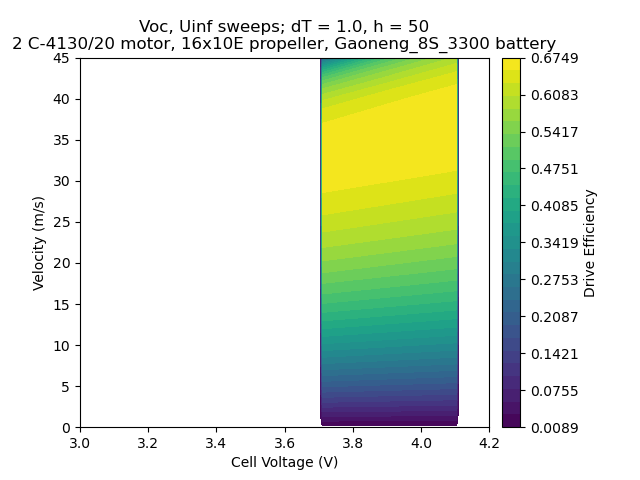
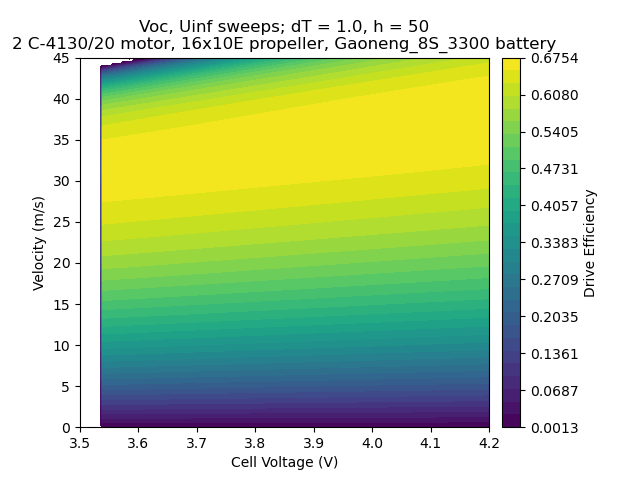
switch to jeong Voc vs SOC

diff --git a/src/uavdex/propulsions.py b/src/uavdex/propulsions.py
@@ -558,13 +558,13 @@ def VocFunc(SOC, BattType):
     Determines the battery Voltage (Voc) as a function of State of Charge (SOC) given from 0-1 for a specified battery chemistry
     
     LiPo
-    Main equation from Chen 2006
-    https://rincon-mora.gatech.edu/publicat/jrnls/tec05_batt_mdl.pdf
-    
-    Alternative from Jeong 2020
+    Main equation from Jeong 2020
     Voc = 1.7*(SOC**3) - 2.1*(SOC**2) + 1.2*SOC + 3.4
     https://www.researchgate.net/publication/347270768_Improvement_of_Electric_Propulsion_System_Model_for_Performance_Analysis_of_Large-Size_Multicopter_UAVs
     
+    alternative equation from Chen 2006
+    https://rincon-mora.gatech.edu/publicat/jrnls/tec05_batt_mdl.pdf
+        
     NOTE:
     Jeong 2020 also presents resistance as a function of cell energy:
     Rbatt.cell = 21.0*(ebatt.cell)**-0.8056
@@ -577,7 +577,8 @@ def VocFunc(SOC, BattType):
     TODO: implment battery voltage equation adjustments based on predicted health (measured via Vsoc at full charge!)
     '''
     if BattType == 'LiPo':
-        return(3.685 - 1.031 * np.exp(-35 * SOC) + 0.2156 * SOC - 0.1178 * SOC**2 + 0.3201 * SOC**3)
+        return(1.7*SOC**3 - 2.1*SOC**2 + 1.2*SOC + 3.4)
+        # return(3.685 - 1.031 * np.exp(-35 * SOC) + 0.2156 * SOC - 0.1178 * SOC**2 + 0.3201 * SOC**3)
     elif BattType == 'Liion':
         return(-4.48*((1-SOC)**5) + 9.09*((1-SOC)**4) - 7.08*((1-SOC)**3) + 2.32*((1-SOC)**2) - 0.76*(1-SOC) + 4.10)
     else:
@@ -776,16 +777,17 @@ def VocFuncBase(SOC, BattType):
     Determines the battery Voltage (Voc) as a function of State of Charge (SOC) given from 0-1 for a specified battery chemistry
     
     LiPo
-    Main equation from Chen 2006
-    https://rincon-mora.gatech.edu/publicat/jrnls/tec05_batt_mdl.pdf
-    
-    Alternative from Jeong 2020
+    Main equation from Jeong 2020
     Voc = 1.7*(SOC**3) - 2.1*(SOC**2) + 1.2*SOC + 3.4
     https://www.researchgate.net/publication/347270768_Improvement_of_Electric_Propulsion_System_Model_for_Performance_Analysis_of_Large-Size_Multicopter_UAVs
     
+    alternative equation from Chen 2006
+    https://rincon-mora.gatech.edu/publicat/jrnls/tec05_batt_mdl.pdf
+        
     NOTE:
     Jeong 2020 also presents resistance as a function of cell energy:
     Rbatt.cell = 21.0*(ebatt.cell)**-0.8056
+    
     
     Liion
     https://www.researchgate.net/publication/346515863_Comparison_of_Lithium-Ion_Battery_Pack_Models_Based_on_Test_Data_from_Idaho_and_Argonne_National_Laboratories
@@ -794,7 +796,8 @@ def VocFuncBase(SOC, BattType):
     TODO: implment battery voltage equation adjustments based on predicted health (measured via Vsoc at full charge!)
     '''
     if BattType == 'LiPo':
-        return(3.685 - 1.031 * np.exp(-35 * SOC) + 0.2156 * SOC - 0.1178 * SOC**2 + 0.3201 * SOC**3)
+        return(1.7*SOC**3 - 2.1*SOC**2 + 1.2*SOC + 3.4)
+        # return(3.685 - 1.031 * np.exp(-35 * SOC) + 0.2156 * SOC - 0.1178 * SOC**2 + 0.3201 * SOC**3)
     elif BattType == 'Liion':
         return(-4.48*((1-SOC)**5) + 9.09*((1-SOC)**4) - 7.08*((1-SOC)**3) + 2.32*((1-SOC)**2) - 0.76*(1-SOC) + 4.10)
     else:

diff --git a/src/uavdex/quicktest.py b/src/uavdex/quicktest.py
@@ -1,0 +1,47 @@
+# -*- coding: utf-8 -*-
+"""
+Created on Tue Mar 24 14:15:00 2026
+
+@author: NASSAS
+"""
+
+from propulsions import VocFunc
+import matplotlib.pyplot as plt
+import numpy as np
+
+BattType = 'LiPo'
+# BattType = 'Liion'
+
+SOC = np.linspace(0.0, 1)
+Voc = VocFunc(SOC, BattType)
+
+def BoteroFunc(x):
+    return(-1.031*np.exp(-35*x) + 3.685 + 0.2156*x - 0.1178*x**2 + 0.3201*x**3)
+
+def JeongFunc(SoC):
+    return(1.7*SoC**3 - 2.1*SoC**2 + 1.2*SoC + 3.4)
+
+chenV = VocFunc(SOC, 'LiPo')
+ionV = VocFunc(SOC, 'Liion')
+# boteroV = BoteroFunc(SOC)
+jeongV = JeongFunc(SOC)
+plt.plot(SOC, chenV, label = 'LiPo chen')
+# plt.plot(SOC, ionV, label = 'Liion')
+# plt.plot(SOC, boteroV, label = 'LiPo Botero')
+plt.plot(SOC, jeongV, label = 'LiPo Jeong')
+plt.legend()
+plt.show()
+
+
+print(f'chen median: {np.median(chenV)}, mean: {np.mean(chenV)}')
+# print(f'liion median: {np.median(ionV)}, mean: {np.mean(ionV)}')
+# print(f'botero median: {np.median(boteroV)}, mean: {np.mean(boteroV)}')
+print(f'jeong median: {np.median(jeongV)}, mean: {np.mean(jeongV)}')
+
+Ecell = np.linspace(0, 100/8)
+Rb = 21.0*(Ecell)**-0.8056
+
+plt.plot(SOC, Rb*1e-4)
+plt.ylabel('Resistance (Ohm)')
+plt.xlabel('Energy (Wh)')
+plt.show()

diff --git a/tests/test_pointdesign.py b/tests/test_pointdesign.py
@@ -150,17 +150,17 @@ class TestContourPlot(unittest.TestCase):
             #  "h":50, 
             #  "dT":np.linspace(0.2, 1.0, n), 
             #  "plot":True},
-            # {"propQ":['T', 'eta_drive', 'Ib'],
-            #  # "xaxis":"t", "yaxis":"Uinf", 
-            #  "Uinf":np.linspace(0, 45, n), 
-            #  "Voc": np.linspace(3.0, 4.2, n), 
-            #  "h":50, 
-            #  "dT":1.0, 
-            #  "plot":True},
+            {"propQ":"eta_drive",
+             # "xaxis":"t", "yaxis":"Uinf", 
+             "Uinf":np.linspace(0, 45, n), 
+             "Voc": np.linspace(3.5, 4.2, n), 
+             "h":50, 
+             "dT":1.0, 
+             "plot":True},
             {"propQ":"eta_drive",
              # "xaxis":"t", "yaxis":"Uinf", 
              "Uinf":30.0, 
-             "Voc": np.linspace(3.0, 4.2, n), 
+             "Voc": np.linspace(3.5, 4.2, n), 
              "h":50, 
              "dT":np.linspace(0.2, 1.0, n), 
              "plot":True},
